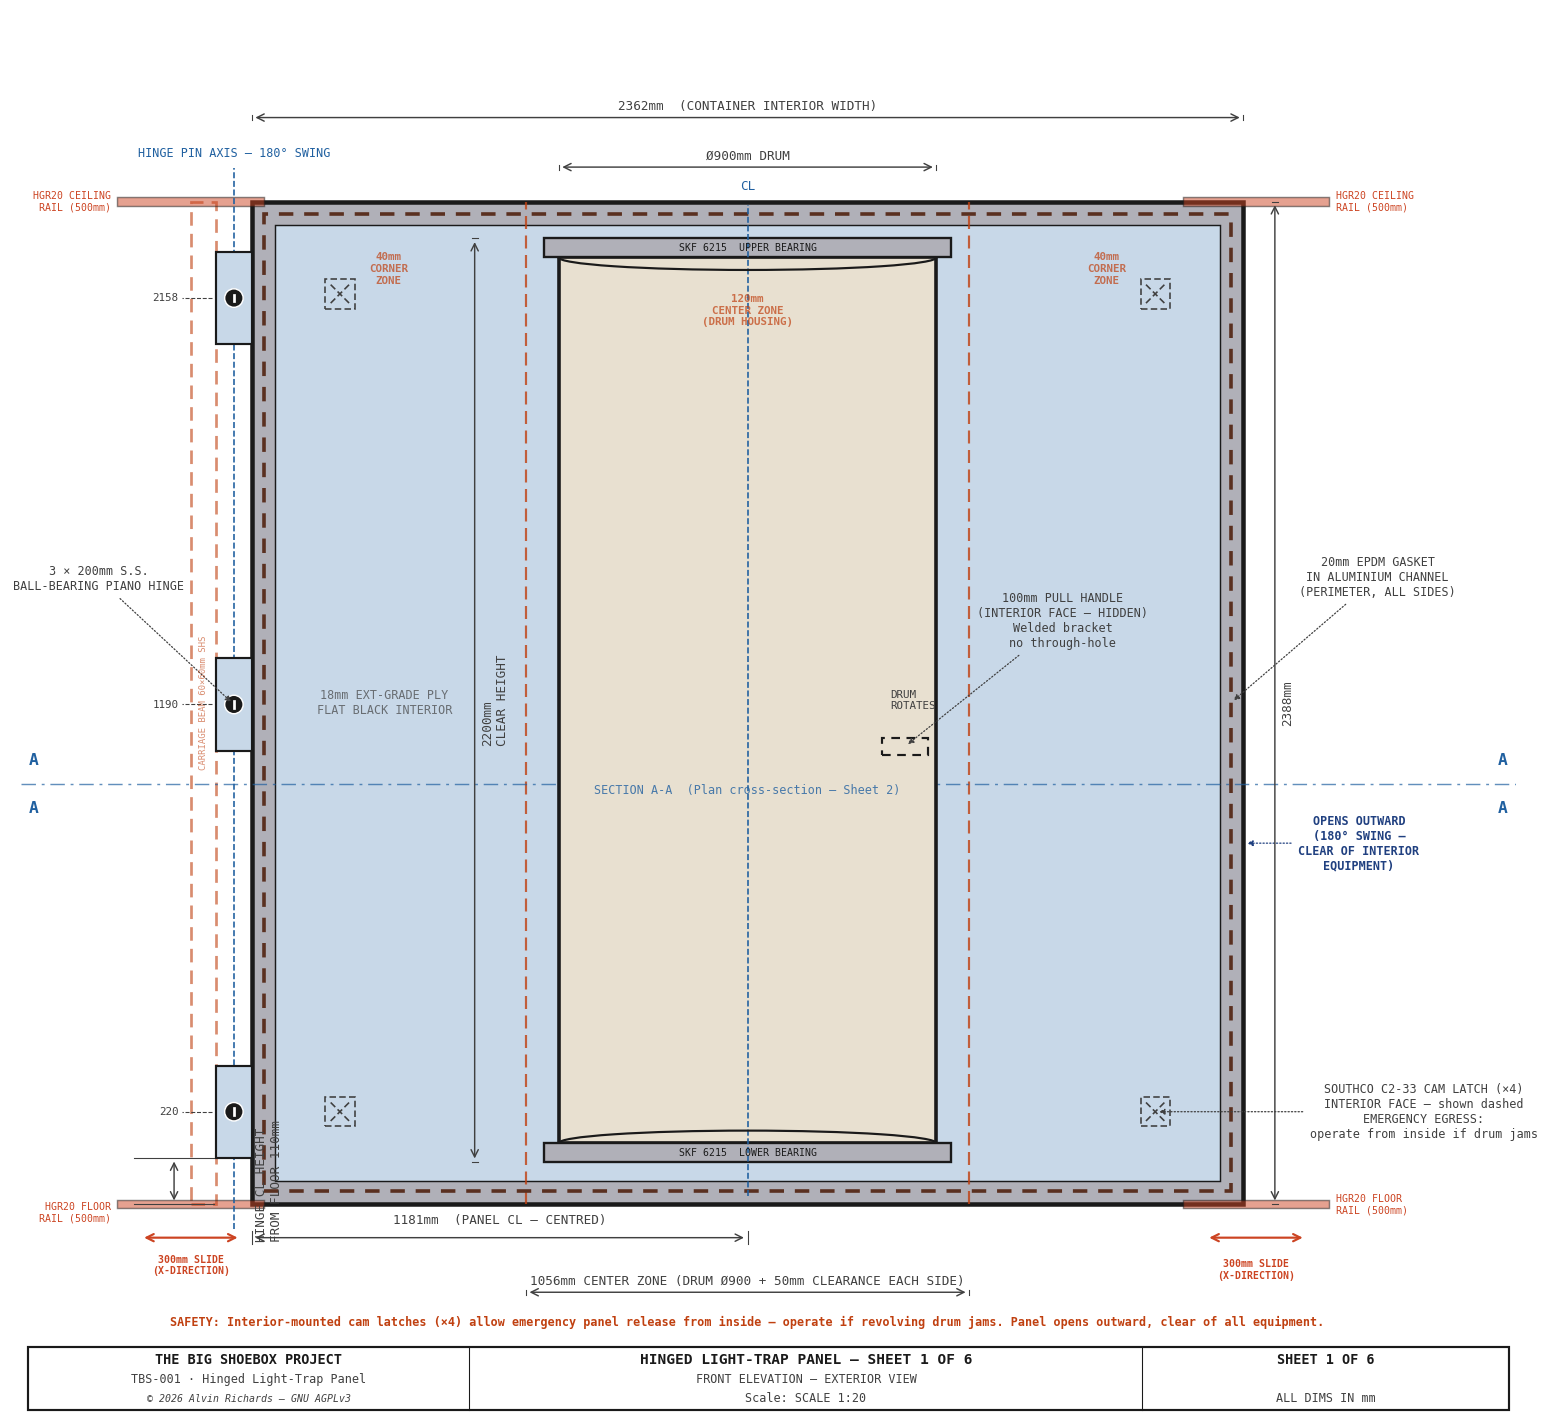
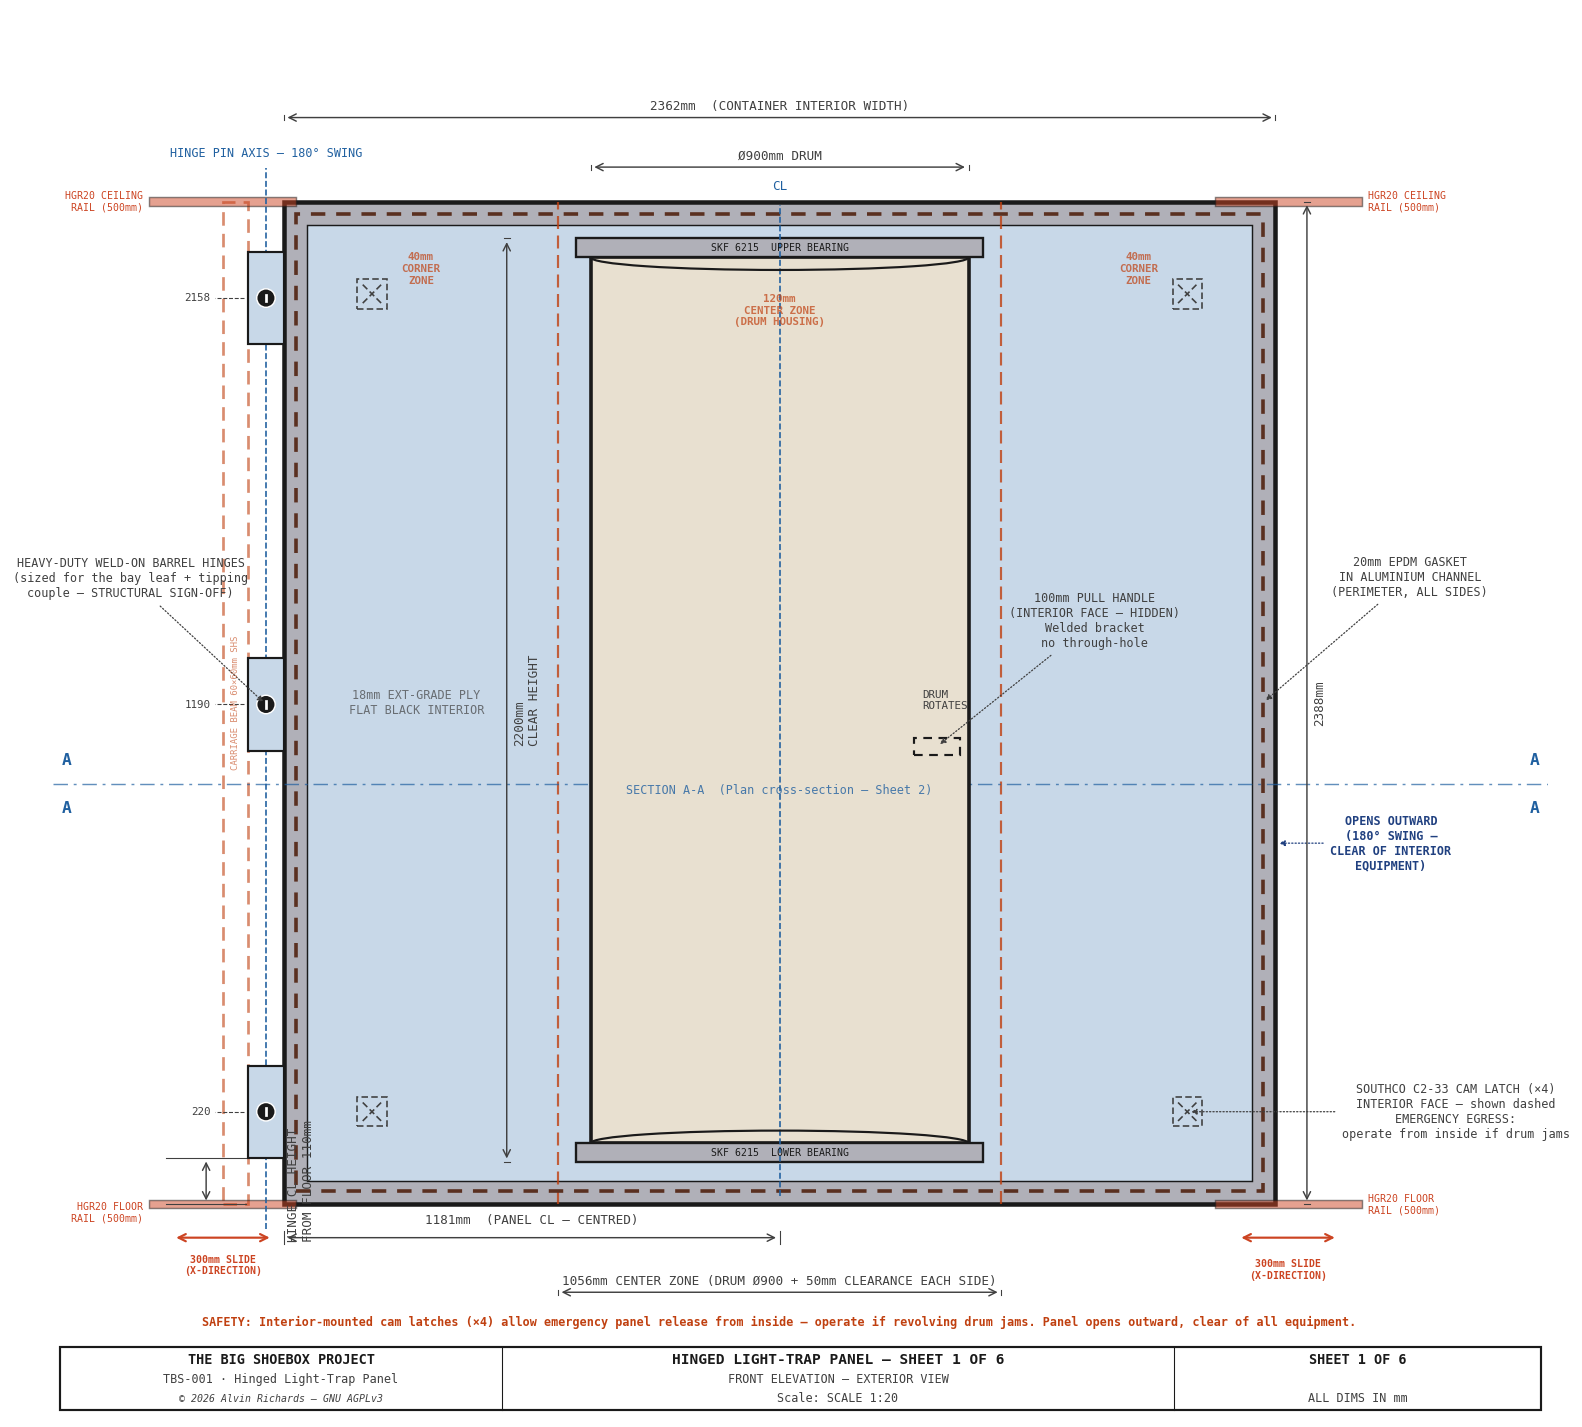
B2 Task 3 (partial): hingepanel — sheet6 bay + continuous rail, heavy hinge, slide 880
sheet6: punch-out bay (deployed + transport ghost), continuous left rail struck
for transport, B2 notes (880 slide, door-end brackets demountable). sheet1: heavy-
duty hinge callout (STRUCTURAL SIGN-OFF). sheet4: slide auto-updates to 880. Drop
the BRACE_LEFT_DEMOUNT import/usage. NOTE: the full bay-protrusion redraw of the
section sheets (2/3) + the stale Ø750 DR=375 remnant is flagged for a focused pass.

diff --git a/src/generators/generate_hingepanel_diagram.py b/src/generators/generate_hingepanel_diagram.py
@@ -36,8 +36,8 @@ from tbs_constants import (
     DRUM_D as LT_HOUSING_D,                       # Ø900 fixed housing OD (rev8)
     PANEL_CORNER_YD_L, PANEL_CORNER_YD_R,         # widened center-zone step lines
     LT_DRUM_OR, LT_OPENING_DEG,
-    RAIL_X_L, BRACE_LEFT_DEMOUNT_Y0, BRACE_LEFT_DEMOUNT_Y1,   # film-plane left rail
-    FP_Y_MIN, FP_Y, PANEL_SLIDE, PANEL_CENTER_T,
+    RAIL_X_L,                                    # film-plane left rail (now continuous, B2)
+    FP_Y_MIN, FP_Y, PANEL_SLIDE, PANEL_CENTER_T, DRUM_CY, BAY_FRONT_X,
 )
 from tbs_title_block import title_block
 from tbs_drawing import (draw_dim_h, draw_dim_v,
@@ -217,7 +217,7 @@ def sheet1():
 
     leader(ax, (-HINGE_W / 2, HINGE_YS[1]),
            (-HINGE_W - 280, HINGE_YS[1] + 300),
-           "3 × 200mm S.S.\nBALL-BEARING PIANO HINGE")
+           "HEAVY-DUTY WELD-ON BARREL HINGES\n(sized for the bay leaf + tipping\ncouple — STRUCTURAL SIGN-OFF)")
 
     # ── Sliding carriage system ─────────────────────────────────────────────
     # The entire panel slides 300mm in the X direction (into the container)
@@ -1692,13 +1692,12 @@ def sheet5():
 def sheet6():
     """Transport-slide clearance vs the film-plane left mechanism (plan)."""
     RED, GREEN = "#C0202A", "#2E8B57"
-    D0, D1 = BRACE_LEFT_DEMOUNT_Y0, BRACE_LEFT_DEMOUNT_Y1   # 731, 1631
-    RX, SL, PT_ = RAIL_X_L, PANEL_SLIDE, PANEL_CENTER_T     # 150, 550, 120
+    RX, SL, PT_ = RAIL_X_L, PANEL_SLIDE, PANEL_CENTER_T     # 150, 880, 120
     cyd = PW / 2                                            # 1181 light-lock Yd centre
 
     fig, ax = plt.subplots(figsize=(17, 12))
     fig.patch.set_facecolor(BG); ax.set_facecolor(BG)
-    ax.set_xlim(-280, 2360); ax.set_ylim(-360, 2700)
+    ax.set_xlim(-980, 2360); ax.set_ylim(-360, 2700)
     ax.set_aspect("equal"); ax.axis("off")
 
     ax.add_patch(Rectangle((0, 0), 1340, PW, fc="#EEF6EE", ec="none", zorder=0))
@@ -1709,10 +1708,11 @@ def sheet6():
     ax.plot([0, 0], [0, PW], color=C_CL, lw=1.4, ls=(0, (6, 4)), zorder=3)
     ax.text(10, PW + 95, "door plane X=0", fontsize=8, color=C_CL, **FONT)
 
-    # film-plane left rail at X=150 (fixed ends + demount centre)
-    for ya, yb, c in [(FP_Y_MIN, D0, C_STEEL), (D1, FP_Y + 38, C_STEEL), (D0, D1, C_LIGHT)]:
-        ax.add_patch(Rectangle((RX - 13, ya), 26, yb - ya, fc=c, ec=C_OUT, lw=1, zorder=6))
-    ax.text(RX, (D0 + D1) / 2, "left rail X=150\n· demount centre\n(drum zone only)",
+    # film-plane left rail at X=150 — CONTINUOUS (drum offset out via the bay, B2);
+    # the whole left rail is struck for transport (panel slides past it).
+    ax.add_patch(Rectangle((RX - 13, FP_Y_MIN), 26, (FP_Y + 38) - FP_Y_MIN,
+                           fc=C_STEEL, ec=C_OUT, lw=1, zorder=6))
+    ax.text(RX, DRUM_CY, "left rail X=150\nCONTINUOUS\n(struck for transport)",
             fontsize=6, color="#8a5a10", **FONT, ha="center", va="center", zorder=12)
     # brace-cage beams (run X 150->4649) at Yd 100 & 2262
     for yy in (FP_Y_MIN, FP_Y):
@@ -1723,16 +1723,27 @@ def sheet6():
     for yy in (FP_Y_MIN, FP_Y):                              # corner posts at X=150
         ax.add_patch(Rectangle((RX - 27, yy - 27), 54, 54, fc="#5A5A62", ec=C_OUT, lw=1, zorder=7))
 
-    # hinged panel — deployed + transport ghost
+    # hinged panel side zones — deployed + transport ghost
     ax.add_patch(Rectangle((0, 0), PT_, PW, fc=C_ALUM, ec=C_OUT, lw=1.2, zorder=8))
     ax.text(PT_ / 2, -140, "panel\ndeployed", fontsize=7, color=C_DIM, **FONT, ha="center", va="top")
     ax.add_patch(Rectangle((SL, 0), PT_, PW, fc=C_ALUM, ec=RED, lw=1.6, ls=(0, (5, 3)),
                            alpha=0.30, zorder=9))
+    # B2 punch-out bay — center zone protrudes forward to BAY_FRONT_X (deployed),
+    # and retracts +PANEL_SLIDE for transport (ghost) so the cargo doors close.
+    bw = -BAY_FRONT_X        # 890 — bay depth past the door plane
+    ax.add_patch(Rectangle((BAY_FRONT_X, PANEL_CORNER_YD_L), bw,
+                           PANEL_CORNER_YD_R - PANEL_CORNER_YD_L,
+                           fc="#C8D8E8", ec=C_OUT, lw=1.2, hatch="////", zorder=8))
+    ax.text(BAY_FRONT_X + bw / 2, cyd, "PUNCH-OUT BAY\n(Ø900 housing)",
+            fontsize=6.5, color=C_DIM, **FONT, ha="center", va="center", zorder=12)
+    ax.add_patch(Rectangle((BAY_FRONT_X + SL, PANEL_CORNER_YD_L), bw,
+                           PANEL_CORNER_YD_R - PANEL_CORNER_YD_L,
+                           fc="#C8D8E8", ec=RED, lw=1.4, ls=(0, (5, 3)), alpha=0.30, zorder=9))
     ax.text(SL + PT_ / 2, -140, f"panel TRANSPORT\n(slid +{int(SL)})", fontsize=7.5,
             color=RED, **FONT, ha="center", va="top", fontweight="bold")
     ax.add_patch(Circle((0, cyd), DRUM_R, fc=C_ALUM, ec="#7a5a20", lw=1.0, alpha=0.45, zorder=8))
     ax.add_patch(Circle((SL, cyd), DRUM_R, fc=C_ALUM, ec=RED, lw=1.0, ls=(0, (4, 3)), alpha=0.16, zorder=9))
-    ax.text(SL, cyd, "housing\ndrum-zone rail\ndemounted ✓\n(clears)", fontsize=6.4,
+    ax.text(SL, cyd, "housing slid in\n(left rail struck\nfor transport)", fontsize=6.4,
             color=GREEN, **FONT, ha="center", va="center", zorder=12)
     ax.annotate("", xy=(SL - 8, 1181), xytext=(PT_ + 20, 1181),
                 arrowprops=dict(arrowstyle="-|>", color=RED, lw=2.0), zorder=11)
@@ -1748,21 +1759,21 @@ def sheet6():
 
     ax.text(-280, 2640, "TRANSPORT SLIDE vs FILM-PLANE LEFT MECHANISM  (plan, looking down)",
             fontsize=13, fontweight="bold", color=C_OUT, **FONT)
-    notes = ("THE ISSUE — the ~550mm transport slide sweeps the\n"
-             "panel through X=150 (the film-plane left edge).\n\n"
-             "①  Panel CORNERS hit the FIXED left-rail segments.\n"
-             "    The operational demount segment (amber) clears\n"
-             "    only the drum zone (Yd 731–1631), not the corners.\n\n"
-             "②  Panel BAND overlaps the lengthwise brace-cage\n"
-             "    beams (Yd≈100 & 2262) and the muslin screen.\n\n"
-             "The housing itself clears — its drum-zone rail is\n"
-             "demounted (green).\n\n"
-             "NOT a regression: the panel always slid past X=150\n"
-             "(rev 8 only deepened the slide 300→550mm).\n\n"
-             "RESOLUTION (Hinged Panel Report §5.4) — strike the\n"
-             "film plane FIRST: remove muslin screen → knock down\n"
-             "the brace cage → remove the FULL left rail → lift the\n"
-             "walkway → release latches → slide ~550mm → lock.")
+    notes = ("B2 TRANSPORT (rev9) — the bay slides ~880mm inward so the\n"
+             "punch-out bay retracts behind the door plane and the\n"
+             "cargo doors close.\n\n"
+             "①  The panel sweeps past X=150, so the WHOLE left rail\n"
+             "    (top + bottom) is struck for transport. It is\n"
+             "    CONTINUOUS in operating — the drum is offset clear of\n"
+             "    the rail via the bay (no demountable segment).\n\n"
+             "②  The deeper slide also reaches the brace-cage beams and\n"
+             "    the door-end walkway brackets (X≈698, 1155) — both are\n"
+             "    struck / demountable for transport.\n\n"
+             "Operating: full symmetric film-plane travel is restored.\n\n"
+             "TEARDOWN (Hinged Panel Report §5) — strike the film plane\n"
+             "first: remove muslin → knock down brace cage → remove the\n"
+             "full left rail → strike the door-end brackets → lift the\n"
+             "left walkway → release latches → slide ~880mm → lock.")
     ax.add_patch(FancyBboxPatch((1440, 360), 880, 2150,
                                 boxstyle="round,pad=8,rounding_size=16",
                                 fc="#FBFBFD", ec=C_DIM, lw=1.0, zorder=2))
